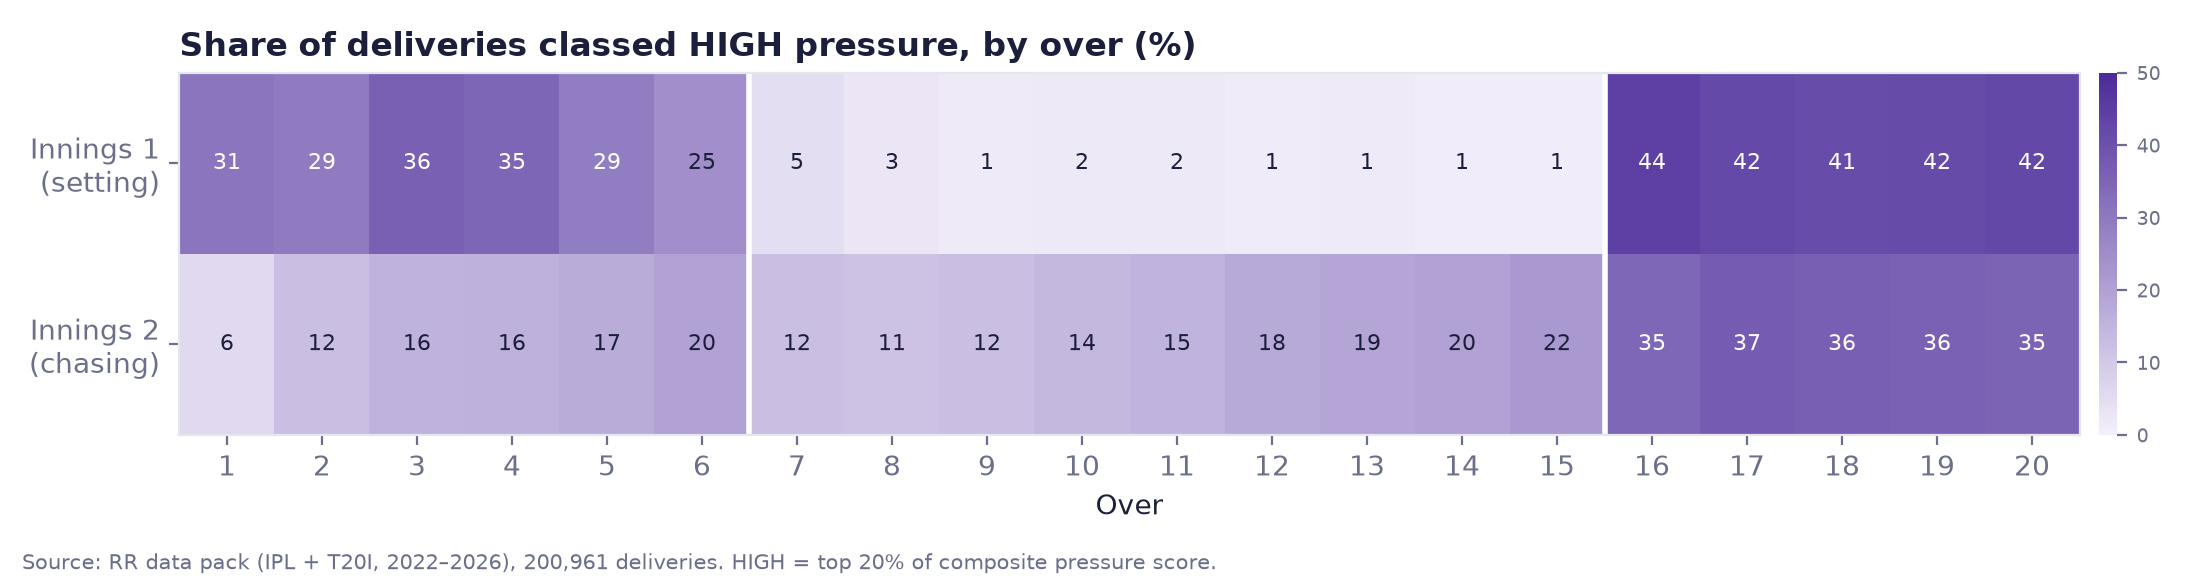
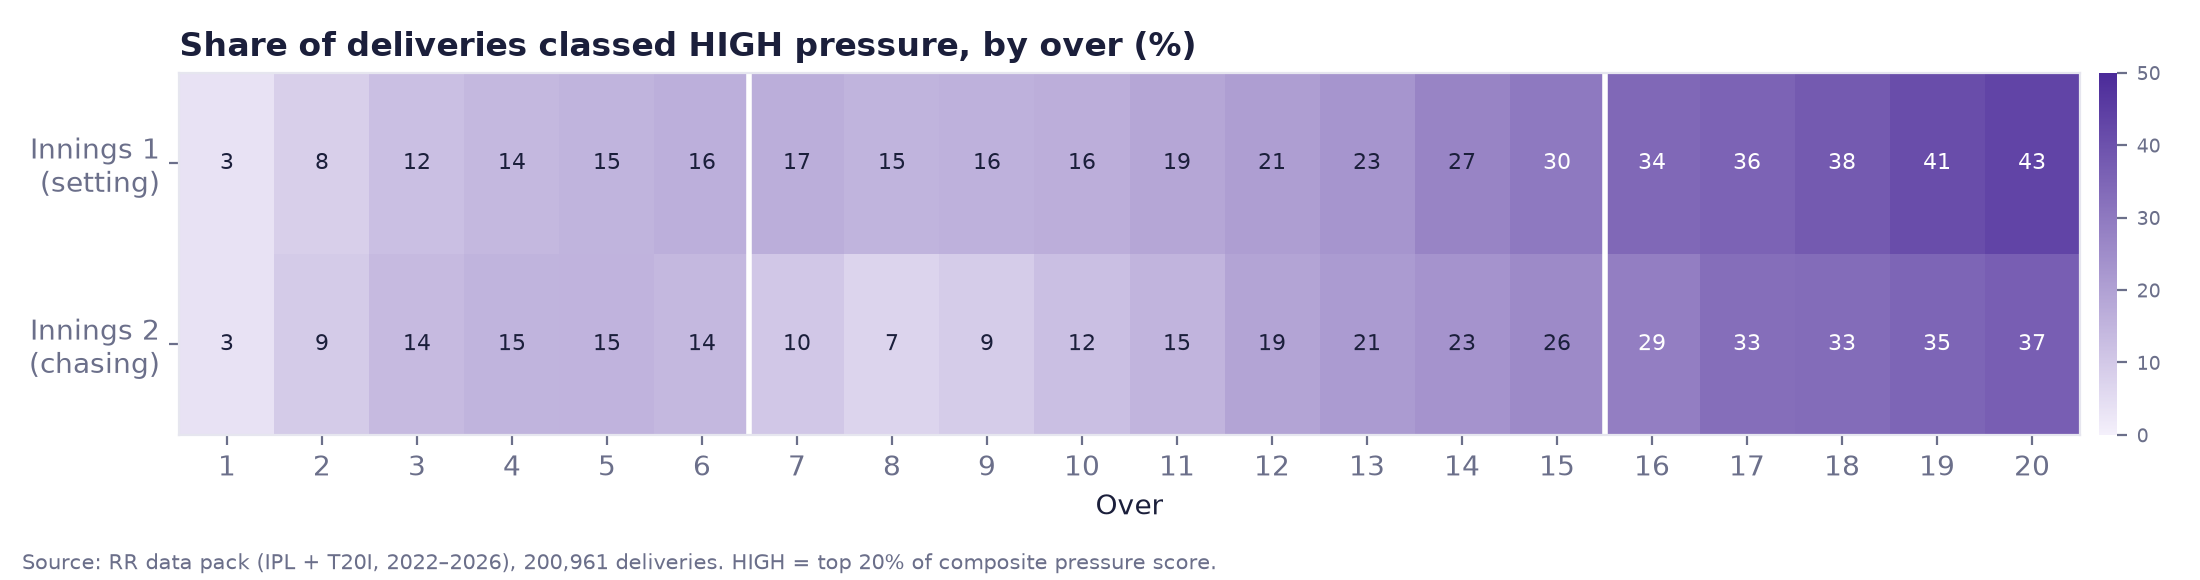
Pressure v2: update figures, review and methodology
- Figures re-rendered (smooth by-over HIGH share, v2 outcome contrast,
  sensitivity with v2 components incl. drop-scoreboard variant)
- PRESSURE_REVIEW.md: v2 implementation, fix-C change rationale,
  acceptance results table
- METHODOLOGY.md section 3 updated to v2 definition

Changed region(s): [[0.0618, 0.1241, 0.8345, 0.4655], [0.4327, 0.5897, 0.4636, 0.6207], [0.1236, 0.5897, 0.1545, 0.6207]]

diff --git a/src/reporting/pressure_figures.py b/src/reporting/pressure_figures.py
@@ -8,7 +8,7 @@ import numpy as np
 import pandas as pd
 
 from src.config import FEATURES_DIR, FIGURES_DIR, PROCESSED_DIR
-from src.features.pressure import rule_based_components
+from src.features.pressure import RPI_WEIGHTS, rule_based_components
 
 INK, MUTED, GRID, SURFACE = "#1B1F3B", "#6B6F8A", "#E6E6EF", "#FFFFFF"
 SEQ = ["#D9CCF2", "#9B7FD6", "#4B2A99"]  # low -> high (one purple hue, light -> dark)
@@ -70,20 +70,25 @@ def fig_outcomes(x: pd.DataFrame) -> None:
 def sensitivity_table(x: pd.DataFrame) -> pd.DataFrame:
     comp = rule_based_components(x)
     z = (comp - comp.mean()) / comp.std(ddof=0)
-    base_w = {"rrr_gap": .25, "wkt_pressure": .20, "recent_wkts": .15, "recent_dots": .10, "death": .10, "closeness": .20}
+    base_w = {k.removeprefix("z_"): v for k, v in RPI_WEIGHTS.items()}
 
     def high(wts: dict, lev_w: float = 0.5) -> pd.Series:
         r = sum(v * z[k] for k, v in wts.items())
         return (lev_w * x["lev_pct_inn"] + (1 - lev_w) * r.rank(pct=True)).rank(pct=True) >= 0.8
 
+    def drop(name: str) -> dict:
+        kept = {k: v for k, v in base_w.items() if k != name}
+        return {k: v / sum(kept.values()) for k, v in kept.items()}
+
     base = x["pressure_band"].eq("high")
     alts = {
-        "RPI: equal weights": (dict.fromkeys(comp.columns, 1 / 6), 0.5),
-        "RPI: drop dot-squeeze": ({"rrr_gap": .3, "wkt_pressure": .22, "recent_wkts": .17, "death": .11, "closeness": .2}, 0.5),
-        "RPI: drop closeness": ({"rrr_gap": .3, "wkt_pressure": .25, "recent_wkts": .2, "recent_dots": .1, "death": .15}, 0.5),
+        "RPI: equal weights": (dict.fromkeys(base_w, 1 / len(base_w)), 0.5),
+        "RPI: drop dot-squeeze": (drop("recent_dots"), 0.5),
+        "RPI: drop closeness": (drop("closeness"), 0.5),
+        "RPI: drop scoreboard": (drop("scoreboard"), 0.5),
         "Blend 30% leverage / 70% RPI": (base_w, 0.3),
         "Blend 70% leverage / 30% RPI": (base_w, 0.7),
-        "Leverage only (within-innings pct)": (base_w, 1.0),
+        "Leverage only (as used in blend)": (base_w, 1.0),
         "RPI only": (base_w, 0.0),
     }
     rows = []
@@ -102,7 +107,7 @@ def fig_sensitivity(t: pd.DataFrame) -> None:
     ax.set_xlim(0, 1); ax.grid(axis="x", color=GRID, zorder=0); ax.spines[["top", "right"]].set_visible(False)
     ax.set_xlabel("Overlap of HIGH-pressure ball sets with final definition (Jaccard, 1 = identical)")
     ax.set_title("Which choices move the pressure definition?", loc="left")
-    _note(fig, "Rule-based weights barely matter (0.78–0.86); the leverage/rule-based blend is the decisive choice.")
+    _note(fig, "Pressure v2. Each bar re-derives the top-20% HIGH set under one alternative choice.")
     fig.tight_layout(rect=(0, 0.06, 1, 1)); fig.savefig(FIGURES_DIR / "pressure_sensitivity.png", dpi=200); plt.close(fig)
 
 

diff --git a/research/METHODOLOGY.md b/research/METHODOLOGY.md
@@ -69,32 +69,28 @@
 
 | Component | Weight | Signal |
 |---|---:|---|
-| Required-rate gap vs era par rate (chases) | 0.25 | Scoreboard pressure |
+| Scoreboard gap, z-scored within innings. Chase: RRR − era par rate. Setting: era par − projected total (leave-one-year-out expected-remaining-runs table) | 0.25 | Scoreboard pressure |
 | Wickets lost relative to balls used | 0.20 | Resource pressure |
 | Closeness of contest, 1 − \|2·WP − 1\| | 0.20 | Match in the balance |
 | Wickets in previous 12 deliveries | 0.15 | Collapse pressure |
 | Dot-ball share of previous 12 legal balls | 0.10 | Squeeze / build-up |
-| Death overs (16–20) | 0.10 | Phase |
+| Innings progress, (share of innings bowled)² | 0.10 | Phase (smooth, no cliff) |
 
 ### 3.2 What the comparison showed (`reports/model_outputs/pressure_*.csv`)
 - The two definitions **barely agree**: Spearman ρ = 0.06, and the high-pressure sets overlap by Jaccard 0.11.
 - **Leverage alone is biased toward chases:** 92% of its top-20% balls fall in innings 2, and **none** fall in first-innings death overs. The innings-1 WP model is necessarily uncertain, so its swings are compressed. Batting-first specialists and bowlers defending a first-innings total would be structurally excluded.
 - **RPI alone ignores stakes.** A collapse in a dead game still scores high.
 
-### 3.3 Final definition: composite
-`pressure_score = percentile( 0.5 × leverage percentile within innings + 0.5 × RPI percentile )`
+### 3.3 Final definition: composite (v2, after review; see `research/PRESSURE_REVIEW.md`)
+`pressure_score = percentile( 0.5 × leverage percentile + 0.5 × RPI percentile )`
+- **Leverage percentile:** innings 1 is ranked *within each over*. The innings-1 WP model (AUC 0.69) imposes its own over-by-over shape on leverage, so only like-for-like stage comparisons are trusted. Innings 2 is ranked within the innings, because the chase model (AUC 0.93) has a genuine death-over rise.
 - **HIGH pressure = top 20% of deliveries. LOW (ordinary) = bottom 50%.** Bands are percentile-based, so they are interpretable and not tied to the scale of any index.
-- Balance achieved: 46% of high-pressure balls are in chases and 44% in death overs. First-innings death overs are 42% high pressure, and quiet first-innings middle overs only 2%.
-- **Pressure does change outcomes** (league-wide, balls faced):
-
-| Band | Balls | SR | Dismissal % | Dot % |
-|---|---:|---:|---:|---:|
-| Low | 96,887 | 142.8 | 5.28 | 33.0 |
-| Medium | 57,968 | 135.4 | 5.34 | 37.7 |
-| High | 38,396 | 137.2 | **6.09** | 36.9 |
+- v1 → v2 review: three flaws were found and fixed. Batting-first middle-over collapses were barely recognised (2.6% → 23.9% HIGH), there was a hard 15→16 over cliff (largest adjacent-over jump 39 pp → 5 pp), and leverage stepped at phase boundaries.
+- Balance: 42% of HIGH balls are in chases. HIGH share rises smoothly from about 3% in over 1 to about 40% in over 20 in both innings. Dead-game share is 0.8%.
+- **Pressure does change outcomes** (league-wide, balls faced, v2): dismissal rate is **6.2%** under HIGH vs 5.3% under LOW. Raw SR is roughly flat (140 vs 142), because HIGH is concentrated late in the innings where scoring is faster. This is exactly why players are judged against **context-expected** performance, not raw averages.
 
 - **Known limitation:** the dot-squeeze component is partly *endogenous*. A batter's own dot balls raise the pressure label on their next ball. Its weight is therefore kept low (0.10), and RPI-without-dots is one of the sensitivity variants.
-- Leverage-only and RPI-only remain available (`pressure_band_lev`, `pressure_band_rpi`). Final rankings will be re-run under each and under thresholds of 15%, 20% and 30%. Rank stability across definitions is reported.
+- Sensitivity variants stored per delivery: blend 30/70 and 70/30 (`pressure_band_l30`, `pressure_band_l70`), leverage-only and RPI-only (`pressure_band_lev`, `pressure_band_rpi`). Overlap of the HIGH set with the final: RPI weight changes 0.81–0.89 Jaccard, blend 70/30 0.73, blend 30/70 0.59. Final rankings will be re-run under the blend variants and under HIGH thresholds of 15% and 30%, and rank stability across definitions is reported.
 
 ## 4. Batting reliability engine 🔜
 - **Expected runs and expected dismissal per ball.** A context model (phase, balls left, wickets in hand, innings, chase state, tier, bowler type (pace/spin), batter hand, era par, opposition bowling strength), trained with the same chronological split. Outputs: **Runs Above Expected (RAE)** and **Dismissals Below Expected**, per ball and aggregated.

diff --git a/research/PRESSURE_REVIEW.md b/research/PRESSURE_REVIEW.md
@@ -46,3 +46,27 @@ The dot-squeeze term is partly endogenous (a batter's own dots raise the pressur
 | D | **Keep the 50/50 blend** as the primary definition, with 30/70 and 70/30 as mandatory ranking-sensitivity runs | Judgement call |
 
 Acceptance tests for v2: no adjacent-over change in HIGH share above 15 percentage points; innings-1 middle overs with 4+ down at ≥ 15% HIGH; all existing pressure tests still pass.
+
+---
+
+## v2 outcome (approved by user, implemented 2026-11-14)
+
+| Fix | As implemented |
+|---|---|
+| A | Innings-1 scoreboard term = era par − projected total. Projected total = score + par × E[remaining runs ÷ par \| overs left, wickets in hand], from full-length first innings of **other years** (leave-one-year-out, cells with ≥30 innings, else the overs-left average). Each innings' scoreboard gap is z-scored within that innings |
+| B | Binary death flag → (share of innings bowled)². Leverage outcome probabilities now by tier × over, smoothed over a centred 3-over window |
+| C | **Changed from the proposal.** Damping innings-1 overs 1–2 was tried first: it left batting-first middle overs at 1–5% HIGH (only 7.8% with 4+ down), because the innings-1 WP model imposes its own over-shape on leverage. Final: innings-1 leverage is ranked **within each over** (it only compares situations at the same stage), chase leverage is ranked within the innings (that WP model has AUC 0.93, so its death-over rise is real) |
+| D | Blend kept at 50/50. Bands for 30/70 and 70/30 stored (`pressure_band_l30`, `pressure_band_l70`) for mandatory ranking sensitivity |
+
+**Acceptance results** (tested in `tests/test_pressure.py`):
+
+| Check | v1 | v2 | Target |
+|---|---:|---:|---:|
+| Max adjacent-over change in HIGH share | 39 pp | **5 pp** | ≤ 15 ✅ |
+| Innings-1 overs 7–15, 4+ down, HIGH share | 2.6% | **23.9%** | ≥ 15% ✅ |
+| HIGH balls in dead games (WP < 5% or > 95%) | ~1% | **0.8%** | < 2% ✅ |
+| HIGH share in chases | 46% | 42% | balanced ✅ |
+| Dismissal rate HIGH vs LOW | 6.1 vs 5.3% | 6.2 vs 5.3% | HIGH > LOW ✅ |
+| HIGH share by tier | — | IPL 20.5%, T20I full 20.5%, associate 15.4%, A-team 15.1% | — |
+
+**v2 sensitivity** (Jaccard overlap of the HIGH set with the final definition): RPI equal weights 0.89, drop dot-squeeze 0.88, drop scoreboard 0.83, drop closeness 0.81, blend 70/30 0.73, blend 30/70 0.59. The blend remains the most consequential choice. The RPI-heavy blend shifts the set most, so player rankings will be reported under both blends.
